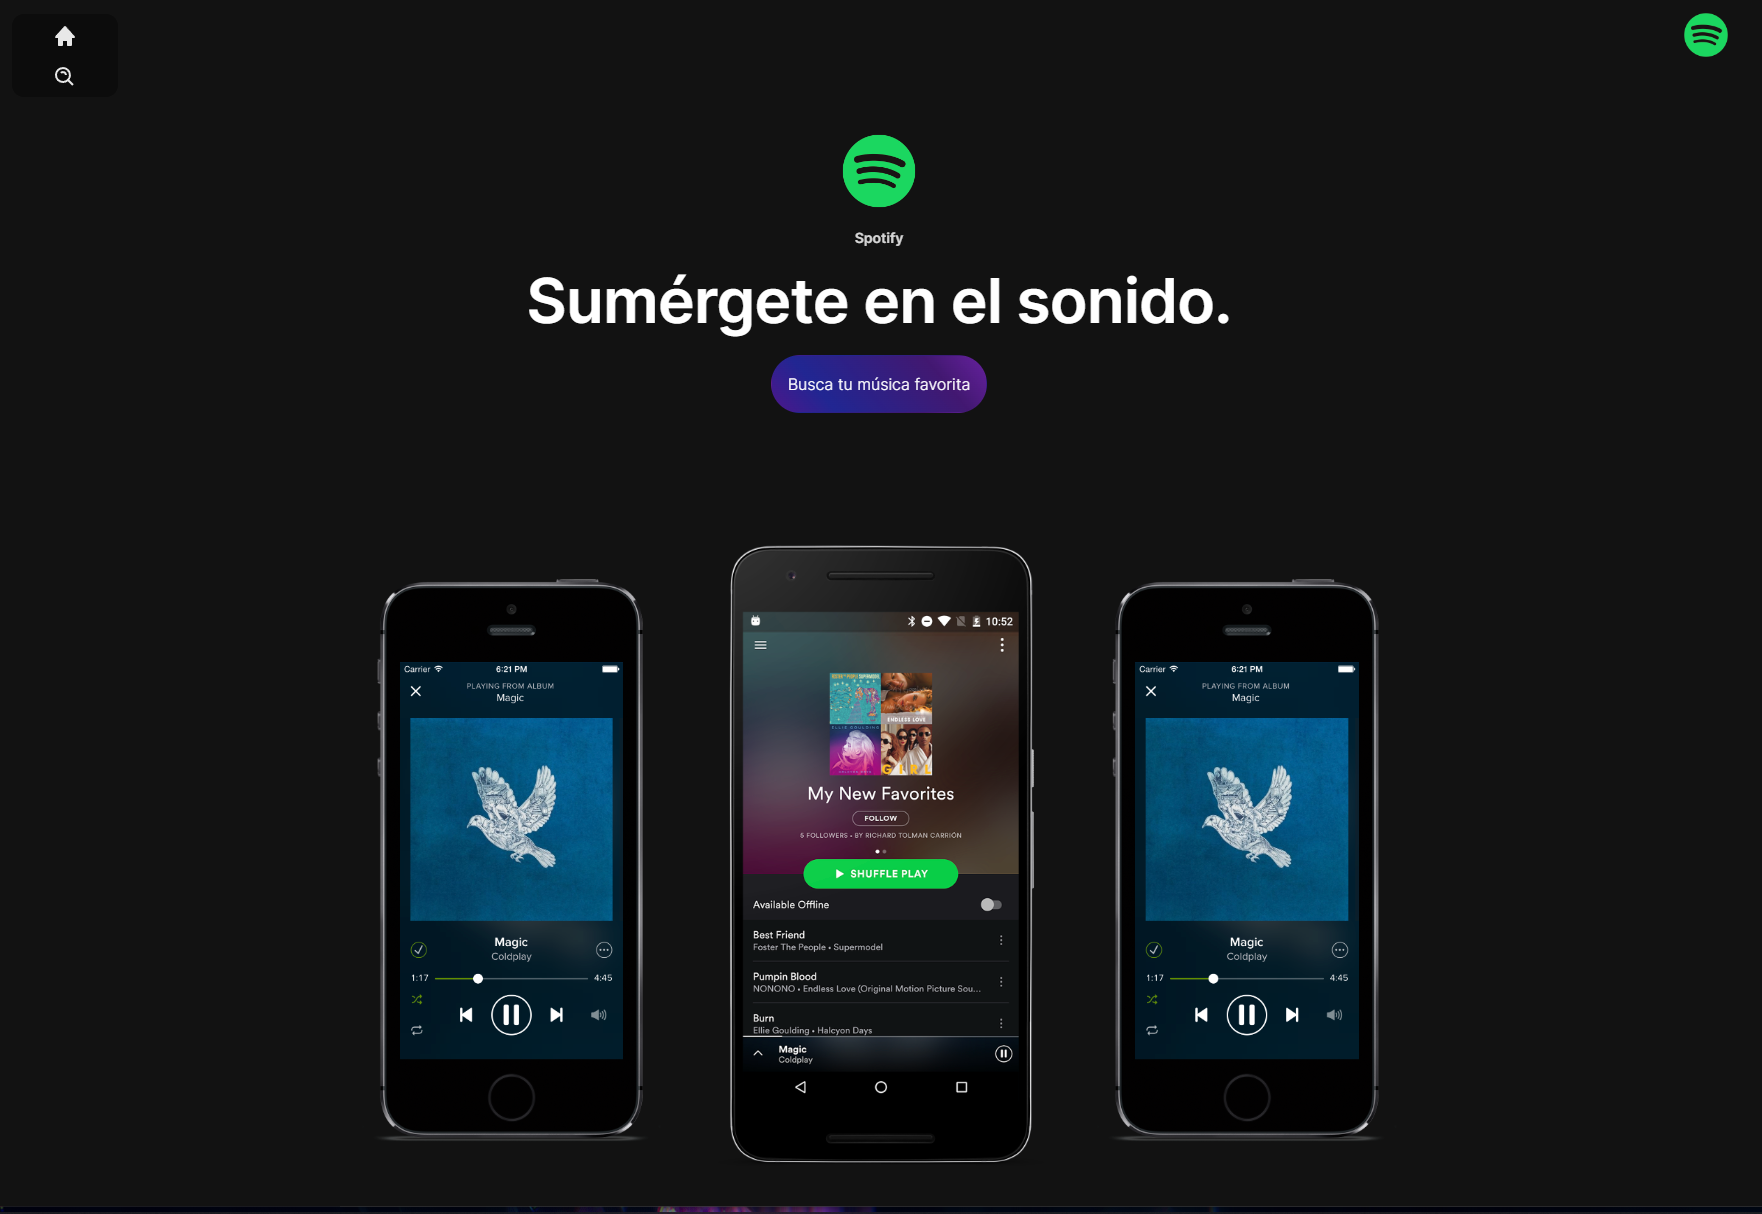
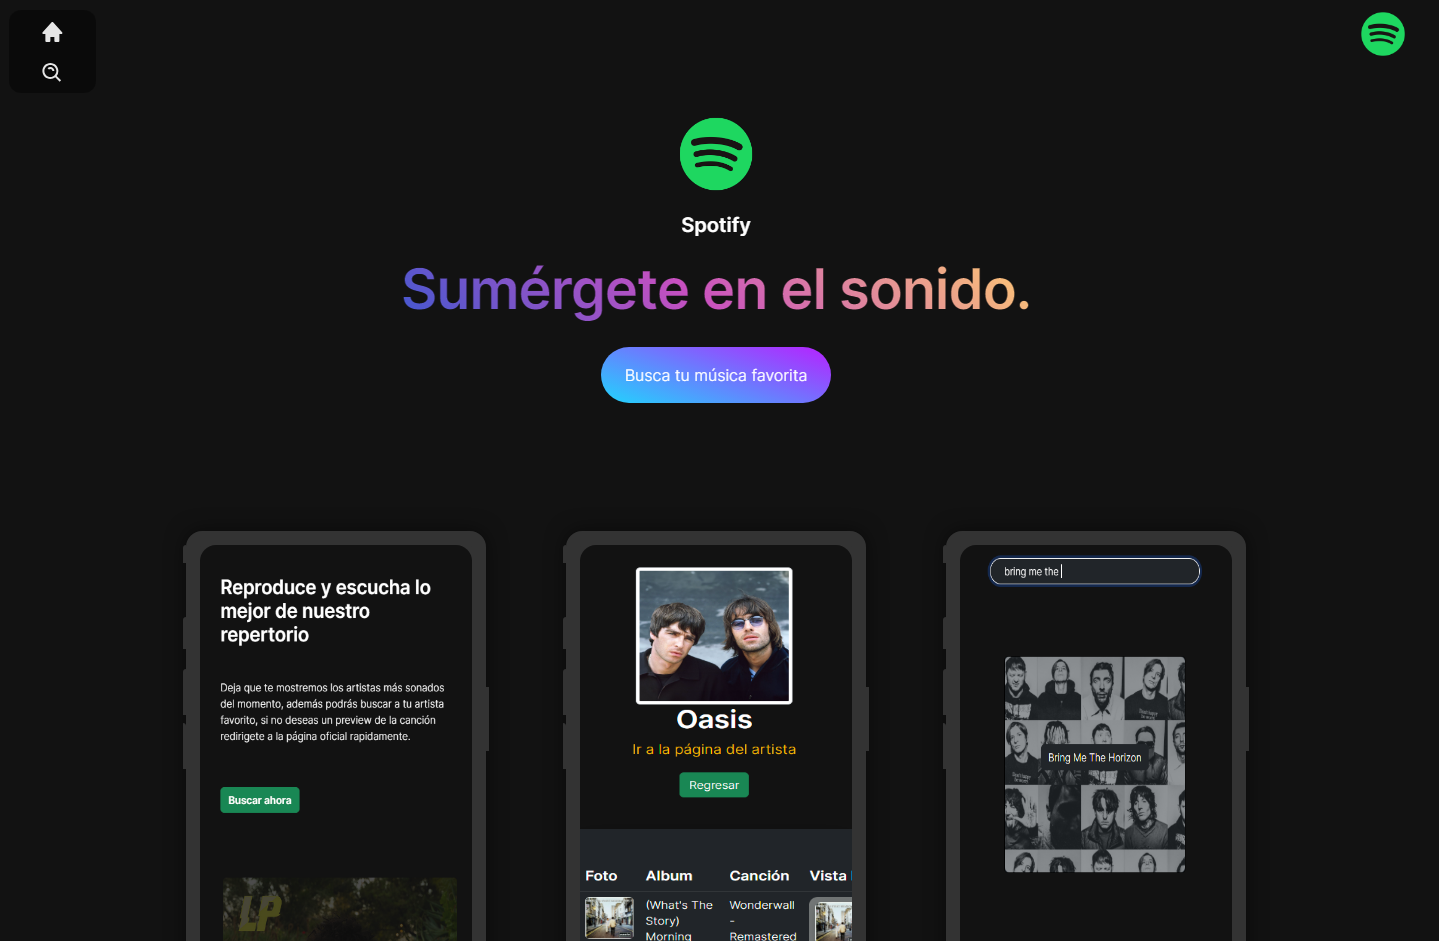
updateImagesPortfolio

diff --git a/src/app/app.component.ts b/src/app/app.component.ts
@@ -1,8 +1,9 @@
-import { Component, Inject, OnInit, Renderer2, ViewChild } from '@angular/core';
-import { BaseChartDirective } from 'ng2-charts';
-import { DOCUMENT } from '@angular/common';
-import { PrimeNGConfig } from 'primeng/api';
+import { Component, OnInit } from '@angular/core';
 
+import { PrimeNGConfig } from 'primeng/api';
+import Lenis from '@studio-freight/lenis';
+import { gsap } from 'gsap';
+import { ScrollTrigger } from 'gsap/ScrollTrigger';
 @Component({
   selector: 'app-root',
   templateUrl: './app.component.html',
@@ -11,11 +12,19 @@ import { PrimeNGConfig } from 'primeng/api';
 export class AppComponent implements OnInit {
   title = 'portfolio';
 
-  constructor(
-    @Inject(DOCUMENT) private document: Document,
-    private primengConfig: PrimeNGConfig
-  ) {}
+  constructor(private primengConfig: PrimeNGConfig) {}
   ngOnInit(): void {
+    const lenis = new Lenis();
+
+    lenis.on('scroll', ScrollTrigger.update);
+
+    gsap.ticker.add((time) => {
+      lenis.raf(time * 1000);
+    });
+
+    gsap.ticker.lagSmoothing(0);
+
+    gsap.registerPlugin(ScrollTrigger);
     this.primengConfig.ripple = true;
   }
 }

diff --git a/src/app/portfolio/portfolio.module.ts b/src/app/portfolio/portfolio.module.ts
@@ -8,11 +8,11 @@ import { SharedModule } from '../shared/shared.module';
 import { ProjectDescriptionComponent } from './components/project-description/project-description.component';
 import { ContactMeComponent } from './pages/contact-me/contact-me.component';
 import { NgPrimeModule } from '../ng-prime/ng-prime.module';
-import { ReactiveFormsModule } from '@angular/forms';
 import { ChartsModule } from '../charts/charts.module';
 import { ToScrollDirective } from './directives/to-scroll.directive';
 import { SvgSocialsComponent } from './components/svg-socials/svg-socials.component';
 import { SvgDevIconsComponent } from './components/svg-dev-icons/svg-dev-icons.component';
+import { ReactiveFormsModule } from '@angular/forms';
 
 @NgModule({
   declarations: [
@@ -25,11 +25,11 @@ import { SvgDevIconsComponent } from './components/svg-dev-icons/svg-dev-icons.c
     SvgDevIconsComponent,
   ],
   imports: [
+    ReactiveFormsModule,
     CommonModule,
     PortfolioRoutingModule,
     SharedModule,
     NgPrimeModule,
-    ReactiveFormsModule,
     ChartsModule,
   ],
 })

diff --git a/src/app/shared/nav/nav.component.html b/src/app/shared/nav/nav.component.html
@@ -24,7 +24,9 @@
         class="Header-collapse collapse navbar-collapse"
         id="navbarNavAltMarkup"
       >
-        <div class="Header-navbar navbar-nav d-flex flex-column flex-sm-row justify-content-start justify-content-sm-center justify-content-lg-end">
+        <div
+          class="Header-navbar navbar-nav d-flex flex-column flex-sm-row justify-content-start justify-content-sm-center justify-content-lg-end"
+        >
           <small
             #aHeaderLink
             class="Header-a nav-link"

diff --git a/src/styles.scss b/src/styles.scss
@@ -6,3 +6,23 @@
 @use "app/charts/horizontal-chart/horizontal-chart.component";
 @use "app/portfolio/components/svg-socials/svg-socials.component";
 @use "app/portfolio/components/svg-dev-icons/svg-dev-icons.component";
+
+html.lenis {
+  height: auto;
+}
+
+.lenis.lenis-smooth {
+  scroll-behavior: auto;
+}
+
+.lenis.lenis-smooth [data-lenis-prevent] {
+  overscroll-behavior: contain;
+}
+
+.lenis.lenis-stopped {
+  overflow: hidden;
+}
+
+.lenis.lenis-scrolling iframe {
+  pointer-events: none;
+}

diff --git a/src/app/shared/nav/nav.component.scss b/src/app/shared/nav/nav.component.scss
@@ -21,17 +21,17 @@
   &-navbar {
     /* determinar posición del menu */
     width: 100%;
-/*     justify-content: flex-end; */
     align-items: center;
     gap: 3rem;
-    margin: 0 3rem 0 0;
+
     @include media-breakpoint-down(sm) {
       margin-top: 3rem;
       gap: 1.5rem;
       height: 100%;
- /*      justify-content: flex-start; */
-      /*      align-items: center;
-       */
+    }
+
+    @include media-breakpoint-up(xl) {
+      margin: 0 3rem 0 0;
     }
   }
 

diff --git a/src/app/portfolio/pages/home/home.component.scss b/src/app/portfolio/pages/home/home.component.scss
@@ -79,7 +79,15 @@
           font-weight: lighter;
           font-size: clamp(2rem, 2vw, 2.25rem);
           &--position {
-            color: $danger;
+            background-clip: text;
+            color: transparent;
+            background-color: #4158d0;
+            background-image: linear-gradient(
+              43deg,
+              #4158d0 0%,
+              #c850c0 46%,
+              #ffcc70 100%
+            );
           }
         }
         &-p {

diff --git a/src/app/portfolio/components/project-description/project-description.component.scss b/src/app/portfolio/components/project-description/project-description.component.scss
@@ -26,6 +26,17 @@
     font-size: 1.7rem;
     text-transform: uppercase;
     font-weight: lighter;
+    background-clip: text;
+    color: transparent;
+    background-color: #8bffe2;
+    background-image: linear-gradient(
+      257deg,
+      #8bffe2 0%,
+      #2bffbc 52%,
+      #2bff88 90%
+    );
+
+    font-weight: bold;
   }
   &-img {
     max-height: 20rem;

diff --git a/src/app/portfolio/services/hard-data.service.ts b/src/app/portfolio/services/hard-data.service.ts
@@ -137,7 +137,7 @@ export class HardDataService {
       ],
       repositorio: 'https://github.com/JuanTasayco/F1-LpmGuideFrontend ',
       link: 'www.paginaSpotify.com',
-      tecnologias: 'Angular 14, Bootstrap, NGPrime ',
+      tecnologias: 'Angular 16+, Bootstrap, NGPrime ',
     } /* , https://github.com/JuanTasayco/F1-LpmGuideBackend  */,
 
     {

diff --git a/src/app/portfolio/components/project-description/project-description.component.ts b/src/app/portfolio/components/project-description/project-description.component.ts
@@ -24,7 +24,6 @@ export class ProjectDescriptionComponent implements OnInit, AfterViewInit {
   @Input('contenido') contentProjects: ProjectDescriptions[] = [];
   @ViewChildren('containerRef') containers!: QueryList<ElementRef>;
   ngOnInit(): void {
-    gsap.registerPlugin(ScrollTrigger);
     gsap.registerPlugin();
   }
   ngAfterViewInit(): void {
